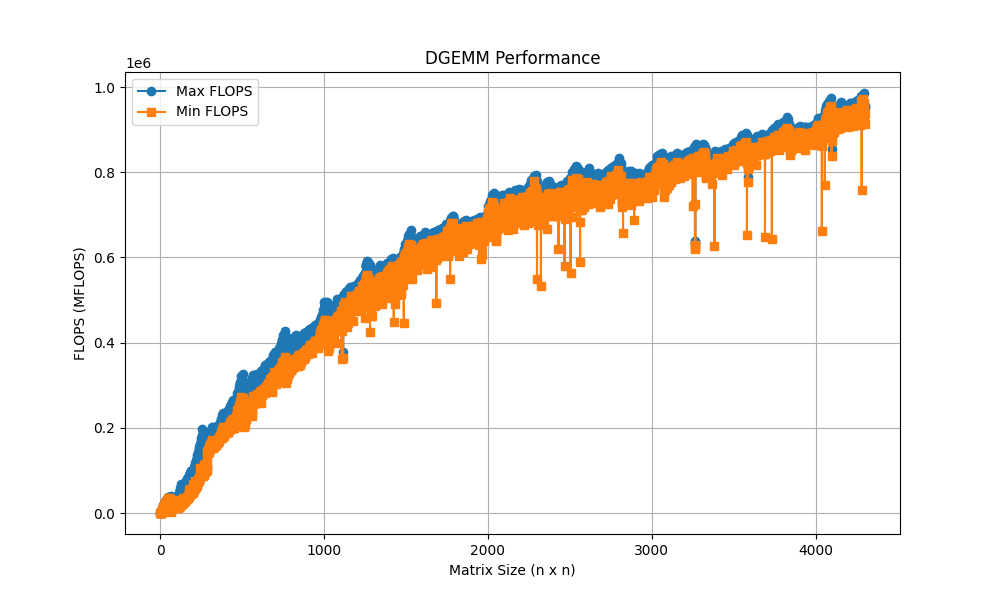
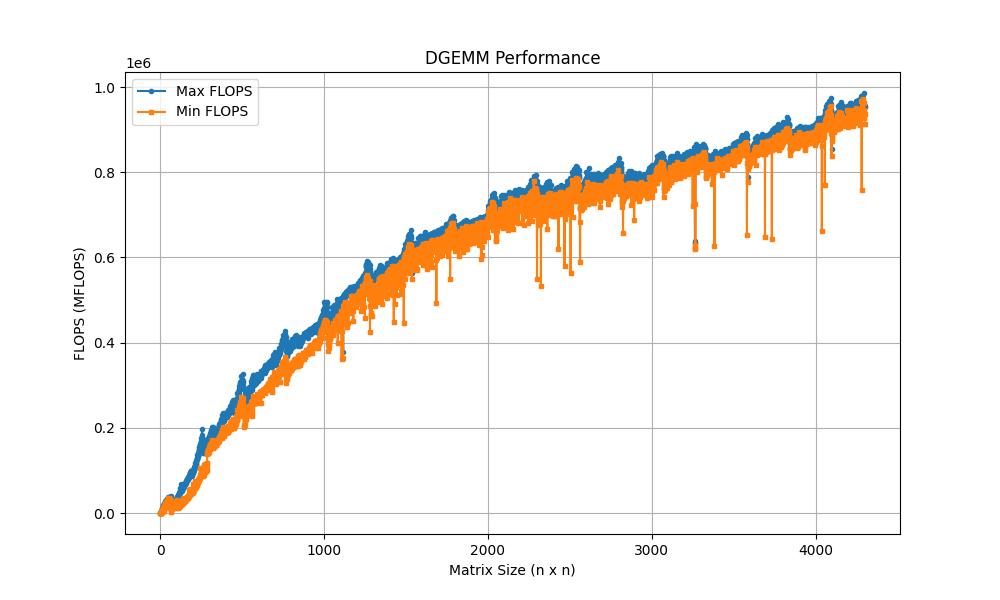
.

diff --git a/dgemm_benchmark/dgemm_benchmark_plot.py b/dgemm_benchmark/dgemm_benchmark_plot.py
@@ -5,8 +5,8 @@ df = pd.read_csv("dgemm_benchmark_results.csv")
 
 # 
 plt.figure(figsize=(10, 6))
-plt.plot(df["n"], df["maxflops"], label="Max FLOPS", marker='o')
-plt.plot(df["n"], df["minflops"], label="Min FLOPS", marker='s')
+plt.plot(df["n"], df["maxflops"], label="Max FLOPS", marker='o', markersize=3)
+plt.plot(df["n"], df["minflops"], label="Min FLOPS", marker='s', markersize=3)
 plt.xlabel("Matrix Size (n x n)")
 plt.ylabel("FLOPS (MFLOPS)")
 plt.title("DGEMM Performance")
